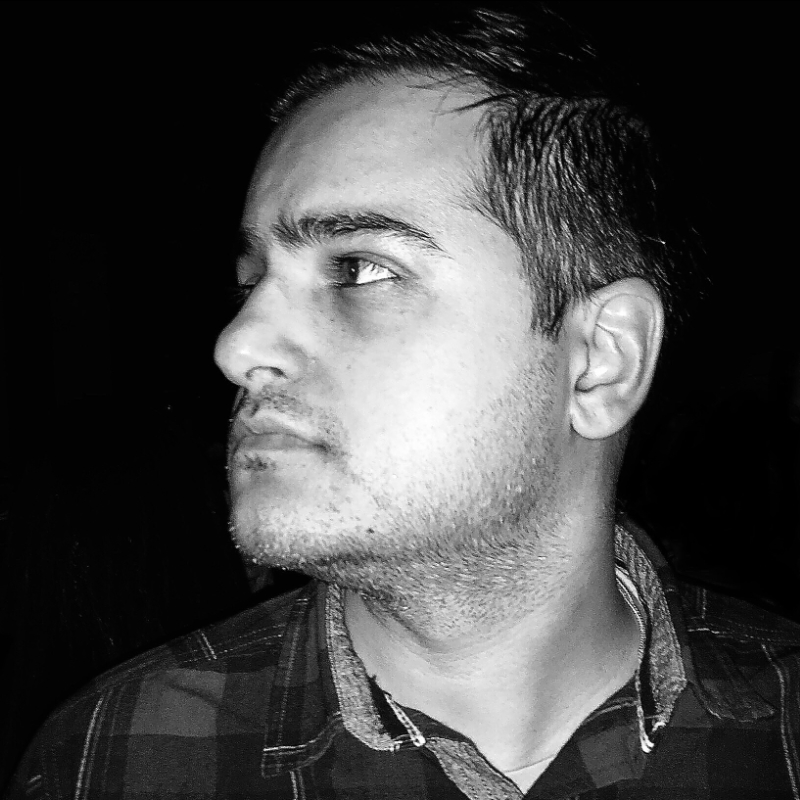
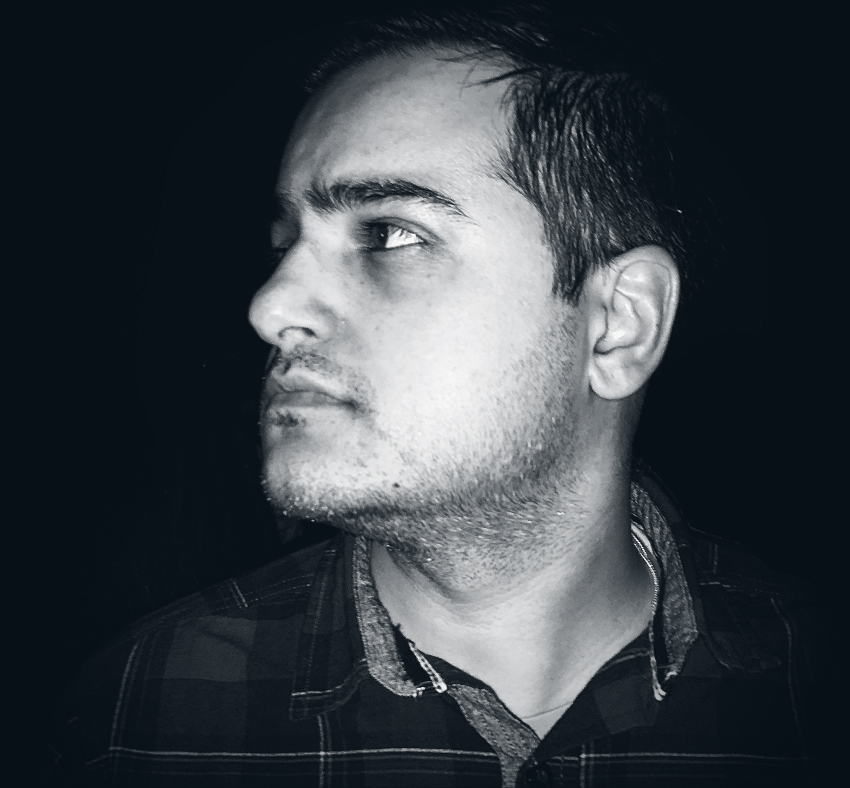
Some updates

diff --git a/index.html b/index.html
@@ -16,7 +16,7 @@
     <link rel="preconnect" href="https://fonts.googleapis.com" />
     <link rel="preconnect" href="https://fonts.gstatic.com" crossorigin />
     <link
-      href="https://fonts.googleapis.com/css2?family=Rubik:wght@400;700&display=swap"
+      href="https://fonts.googleapis.com/css2?family=Sen:wght@400;700&display=swap"
       rel="stylesheet"
     />
     <link
@@ -27,83 +27,128 @@
     />
     <link rel="stylesheet" href="style.css" />
   </head>
-  <body class="bg-dark text-white">
-    <div class="px-4 py-5 text-center">
-      <h1 class="display-3 fw-bold text-white">Soul Concept</h1>
-      <p class="fs-5 mb-4">DJ / Producer from the UK</p>
+  <body>
+    <div class="px-4 text-justify">
       <div class="col-sm-10 col-md-8 col-lg-6 col-xxl-4 mx-auto">
-        <img
+        <!-- <h1 class="display-3 fw-bold text-white">
+          <svg
+            class="logo"
+            viewBox="0 0 344 60"
+            fill="none"
+            xmlns="http://www.w3.org/2000/svg"
+          >
+            <title>Soul Concept</title>
+            <path
+              d="M53.9511 14.9966C50.5782 9.16216 45.3368 4.6317 39.0714 2.13524C32.806 -0.361225 25.8815 -0.678289 19.4136 1.23513C12.9458 3.14856 7.31126 7.18103 3.41804 12.6828C2.27227 14.3019 1.29695 16.0178 0.5 17.8086L45.2628 45.1254C41.0898 49.706 36.7044 51.6816 32.526 52.5471C27.7654 53.5332 22.859 52.9326 18.4258 50.9388C14.0397 48.9663 10.3827 45.6733 7.96559 41.5228L1.90774 45.0158C2.88408 46.7029 4.02826 48.3005 5.32972 49.7826C9.77743 54.8478 15.8031 58.27 22.4358 59.4977C29.0685 60.7254 35.9219 59.6872 41.8917 56.5504C47.8615 53.4135 52.6001 48.3607 55.3437 42.2061L10.5305 14.8518C14.5187 10.486 19.0838 8.40072 23.2329 7.52604C27.99 6.52317 32.9429 7.04836 37.3831 9.0265C41.8008 10.9946 45.4859 14.3007 47.9174 18.4757L53.9511 14.9966Z"
+              fill="#F1F0F8"
+            />
+            <path
+              fill-rule="evenodd"
+              clip-rule="evenodd"
+              d="M36.3053 11.3768C40.2393 13.1294 43.5176 16.0796 45.6715 19.8054L38.5973 23.8845C37.305 21.649 35.338 19.8789 32.9776 18.8273C30.6172 17.7757 27.9843 17.4966 25.4554 18.0297C24.4195 18.2481 23.4228 18.5982 22.4878 19.067L14.8379 14.3973C17.3998 12.2443 20.4645 10.7439 23.7683 10.0474C27.9831 9.15887 32.3713 9.62419 36.3053 11.3768ZM41.0439 45.5712L33.3741 40.8893C32.4508 41.3434 31.4686 41.6822 30.4488 41.8935C27.9181 42.4177 25.2862 42.1292 22.9295 41.0693C20.5728 40.0095 18.6121 38.2325 17.3277 35.9924C16.295 34.1913 15.742 32.1651 15.7092 30.1061L8.0394 25.4242C7.86885 26.1795 7.74089 26.9466 7.65706 27.7221C7.1947 31.9994 8.09848 36.3132 10.2391 40.0466C12.3798 43.7799 15.6477 46.7416 19.5755 48.5081C23.5033 50.2746 27.8898 50.7553 32.1077 49.8816C35.4099 49.1976 38.4763 47.7109 41.0439 45.5712Z"
+              fill="#F1F0F8"
+            />
+            <path
+              d="M88.0625 18.0938C89.4453 18.0938 90.582 18.293 91.4727 18.6914C92.3867 19.0898 93.1836 19.5117 93.8633 19.957V23.2266C93.207 22.7344 92.4102 22.2773 91.4727 21.8555C90.5352 21.4102 89.5156 21.1875 88.4141 21.1875C87.7109 21.1875 86.9727 21.3164 86.1992 21.5742C85.4492 21.8086 84.8164 22.1953 84.3008 22.7344C83.7852 23.2734 83.5273 23.9648 83.5273 24.8086C83.5273 25.7461 83.8672 26.4609 84.5469 26.9531C85.2266 27.4453 86.0469 27.9141 87.0078 28.3594L90.2422 29.8359C91.8594 30.5625 93.0781 31.3711 93.8984 32.2617C94.7188 33.1523 95.1289 34.3359 95.1289 35.8125C95.1289 37.1016 94.7539 38.2383 94.0039 39.2227C93.2539 40.1836 92.2695 40.9453 91.0508 41.5078C89.832 42.0703 88.4961 42.3516 87.043 42.3516C85.6836 42.3516 84.4297 42.1172 83.2812 41.6484C82.1328 41.1797 81.1367 40.6523 80.293 40.0664V36.7969C81.207 37.4297 82.25 38.0039 83.4219 38.5195C84.6172 39.0117 85.9648 39.2578 87.4648 39.2578C88.6367 39.2578 89.668 38.9648 90.5586 38.3789C91.4492 37.793 91.8945 36.9844 91.8945 35.9531C91.8945 35.3672 91.707 34.8633 91.332 34.4414C90.9805 34.0195 90.5469 33.6562 90.0312 33.3516C89.5156 33.0469 89.0117 32.7891 88.5195 32.5781L84.6172 30.8203C82.9297 30.0703 81.7812 29.1914 81.1719 28.1836C80.5625 27.1758 80.2578 26.0156 80.2578 24.7031C80.2578 23.4609 80.6094 22.3477 81.3125 21.3633C82.0391 20.3555 83 19.5586 84.1953 18.9727C85.3906 18.3867 86.6797 18.0938 88.0625 18.0938ZM111.055 17.918C112.836 17.918 114.477 18.2461 115.977 18.9023C117.477 19.5352 118.789 20.4141 119.914 21.5391C121.039 22.6641 121.906 23.9766 122.516 25.4766C123.148 26.9531 123.465 28.5352 123.465 30.2227C123.465 31.9102 123.148 33.5039 122.516 35.0039C121.906 36.4805 121.039 37.7812 119.914 38.9062C118.789 40.0312 117.477 40.9219 115.977 41.5781C114.477 42.2109 112.836 42.5273 111.055 42.5273C109.273 42.5273 107.633 42.2109 106.133 41.5781C104.633 40.9219 103.32 40.0312 102.195 38.9062C101.07 37.7812 100.191 36.4805 99.5586 35.0039C98.9492 33.5039 98.6445 31.9102 98.6445 30.2227C98.6445 28.5352 98.9492 26.9531 99.5586 25.4766C100.191 23.9766 101.07 22.6641 102.195 21.5391C103.32 20.4141 104.633 19.5352 106.133 18.9023C107.633 18.2461 109.273 17.918 111.055 17.918ZM111.055 21.0117C109.297 21.0117 107.727 21.4102 106.344 22.207C104.961 23.0039 103.871 24.1055 103.074 25.5117C102.277 26.8945 101.879 28.4648 101.879 30.2227C101.879 31.9805 102.277 33.5508 103.074 34.9336C103.871 36.3164 104.961 37.418 106.344 38.2383C107.727 39.0352 109.297 39.4336 111.055 39.4336C112.812 39.4336 114.383 39.0352 115.766 38.2383C117.148 37.418 118.238 36.3164 119.035 34.9336C119.832 33.5508 120.23 31.9805 120.23 30.2227C120.23 28.4648 119.832 26.8945 119.035 25.5117C118.238 24.1055 117.148 23.0039 115.766 22.207C114.383 21.4102 112.812 21.0117 111.055 21.0117ZM148.145 18.375V32.6836C148.145 34.7227 147.711 36.4805 146.844 37.957C146 39.4102 144.852 40.5234 143.398 41.2969C141.945 42.0703 140.293 42.457 138.441 42.457C136.613 42.457 134.961 42.0703 133.484 41.2969C132.031 40.5234 130.871 39.4102 130.004 37.957C129.16 36.4805 128.738 34.7227 128.738 32.6836V18.375H131.902V32.5781C131.902 34.1719 132.195 35.4609 132.781 36.4453C133.391 37.4297 134.188 38.1445 135.172 38.5898C136.18 39.0117 137.27 39.2227 138.441 39.2227C139.613 39.1992 140.691 38.9766 141.676 38.5547C142.684 38.1094 143.48 37.4062 144.066 36.4453C144.676 35.4609 144.98 34.1719 144.98 32.5781V18.375H148.145ZM158.691 18.4453V39.0117H171.664V42H155.527V18.4453H158.691ZM188.047 17.918C189.523 17.918 190.801 18.1289 191.879 18.5508C192.957 18.9492 193.895 19.5 194.691 20.2031V25.125C194.129 24.7031 193.543 24.293 192.934 23.8945C192.324 23.4961 191.633 23.168 190.859 22.9102C190.109 22.6523 189.219 22.5234 188.188 22.5234C186.781 22.5234 185.504 22.8633 184.355 23.543C183.207 24.2227 182.293 25.1367 181.613 26.2852C180.934 27.4336 180.594 28.7461 180.594 30.2227C180.594 31.6758 180.934 32.9883 181.613 34.1602C182.293 35.3086 183.207 36.2227 184.355 36.9023C185.504 37.5586 186.781 37.8867 188.188 37.8867C189.758 37.8867 191.07 37.6523 192.125 37.1836C193.203 36.6914 194.176 36.0938 195.043 35.3906V40.1367C194.246 40.8633 193.25 41.4492 192.055 41.8945C190.859 42.3164 189.523 42.5273 188.047 42.5273C186.359 42.5273 184.766 42.2344 183.266 41.6484C181.766 41.0391 180.441 40.1953 179.293 39.1172C178.145 38.0156 177.242 36.7148 176.586 35.2148C175.93 33.7148 175.602 32.0508 175.602 30.2227C175.602 28.3945 175.93 26.7305 176.586 25.2305C177.242 23.7305 178.145 22.4414 179.293 21.3633C180.441 20.2617 181.766 19.418 183.266 18.832C184.766 18.2227 186.359 17.918 188.047 17.918ZM210.547 17.918C212.234 17.918 213.816 18.2227 215.293 18.832C216.77 19.418 218.07 20.2617 219.195 21.3633C220.344 22.4414 221.234 23.7305 221.867 25.2305C222.523 26.7305 222.852 28.3945 222.852 30.2227C222.852 32.0508 222.523 33.7148 221.867 35.2148C221.234 36.7148 220.344 38.0156 219.195 39.1172C218.07 40.1953 216.77 41.0391 215.293 41.6484C213.816 42.2344 212.234 42.5273 210.547 42.5273C208.859 42.5273 207.266 42.2344 205.766 41.6484C204.289 41.0391 202.977 40.1953 201.828 39.1172C200.703 38.0156 199.812 36.7148 199.156 35.2148C198.523 33.7148 198.207 32.0508 198.207 30.2227C198.207 28.3945 198.523 26.7305 199.156 25.2305C199.812 23.7305 200.703 22.4414 201.828 21.3633C202.977 20.2617 204.289 19.418 205.766 18.832C207.266 18.2227 208.859 17.918 210.547 17.918ZM210.547 22.5234C209.141 22.5234 207.875 22.8633 206.75 23.543C205.648 24.2227 204.781 25.1367 204.148 26.2852C203.516 27.4336 203.199 28.7461 203.199 30.2227C203.199 31.6758 203.516 32.9883 204.148 34.1602C204.781 35.3086 205.648 36.2227 206.75 36.9023C207.875 37.5586 209.141 37.8867 210.547 37.8867C211.953 37.8867 213.207 37.5586 214.309 36.9023C215.41 36.2227 216.277 35.3086 216.91 34.1602C217.543 32.9883 217.859 31.6758 217.859 30.2227C217.859 28.7461 217.543 27.4336 216.91 26.2852C216.277 25.1367 215.41 24.2227 214.309 23.543C213.207 22.8633 211.953 22.5234 210.547 22.5234ZM248.551 18.4453V42.1758H246.793L232.836 27.7969V42H227.949V18.2695H229.707L243.664 32.8594V18.4453H248.551ZM266.094 17.918C267.57 17.918 268.848 18.1289 269.926 18.5508C271.004 18.9492 271.941 19.5 272.738 20.2031V25.125C272.176 24.7031 271.59 24.293 270.98 23.8945C270.371 23.4961 269.68 23.168 268.906 22.9102C268.156 22.6523 267.266 22.5234 266.234 22.5234C264.828 22.5234 263.551 22.8633 262.402 23.543C261.254 24.2227 260.34 25.1367 259.66 26.2852C258.98 27.4336 258.641 28.7461 258.641 30.2227C258.641 31.6758 258.98 32.9883 259.66 34.1602C260.34 35.3086 261.254 36.2227 262.402 36.9023C263.551 37.5586 264.828 37.8867 266.234 37.8867C267.805 37.8867 269.117 37.6523 270.172 37.1836C271.25 36.6914 272.223 36.0938 273.09 35.3906V40.1367C272.293 40.8633 271.297 41.4492 270.102 41.8945C268.906 42.3164 267.57 42.5273 266.094 42.5273C264.406 42.5273 262.812 42.2344 261.312 41.6484C259.812 41.0391 258.488 40.1953 257.34 39.1172C256.191 38.0156 255.289 36.7148 254.633 35.2148C253.977 33.7148 253.648 32.0508 253.648 30.2227C253.648 28.3945 253.977 26.7305 254.633 25.2305C255.289 23.7305 256.191 22.4414 257.34 21.3633C258.488 20.2617 259.812 19.418 261.312 18.832C262.812 18.2227 264.406 17.918 266.094 17.918ZM293.48 28.0078V31.9805H283.074V37.6758H294.852V42H278.188V18.4453H294.852V22.6641H283.074V28.0078H293.48ZM310.742 18.4453C311.844 18.4453 312.922 18.6328 313.977 19.0078C315.031 19.3828 315.98 19.9336 316.824 20.6602C317.691 21.3867 318.371 22.2656 318.863 23.2969C319.379 24.3047 319.637 25.4648 319.637 26.7773C319.637 28.3711 319.227 29.7891 318.406 31.0312C317.609 32.25 316.543 33.2109 315.207 33.9141C313.871 34.6172 312.418 34.9688 310.848 34.9688C309.793 34.9688 308.844 34.8633 308 34.6523C307.156 34.4414 306.453 34.1953 305.891 33.9141V42H301.004V18.4453H310.742ZM305.891 23.0156V29.9766C306.406 30.1875 307.027 30.375 307.754 30.5391C308.504 30.6797 309.266 30.75 310.039 30.75C311.445 30.75 312.559 30.3633 313.379 29.5898C314.223 28.793 314.645 27.8555 314.645 26.7773C314.645 25.5352 314.176 24.5977 313.238 23.9648C312.301 23.332 311.199 23.0156 309.934 23.0156H305.891ZM341.926 18.4453V22.8398H334.402V41.8945H329.551V22.8398H322.027V18.4453H341.926Z"
+              fill="#F1F0F8"
+            />
+          </svg>
+        </h1> -->
+        <!-- <img
           src="avatar.jpg"
-          class="img-fluid mb-4 w-25 rounded-3"
+          class="img-fluid mb-4 mt-4 w-50 rounded-3 d-block"
+          alt="Ajay Karwal aka Soul Concept"
+        /> -->
+        <img
+          src="header.jpg"
+          class="img-fluid mb-4 mt-4 d-block"
           alt="Ajay Karwal aka Soul Concept"
         />
-        <div class="mb-5">
-          <p>
-            Hello... I'm Ajay, aka Soul Concept. I'm a Drum and Bass DJ/Producer
-            from Northampton, UK.
-          </p>
-          <p>
-            I've been DJing since around 1996 and have played all sorts of
-            styles over the years.. Hiphop, UK Garage, Bhangra, Pop, House and
-            of course Drum and Bass... These days I produce and play mainly
-            liquid / soulful / atmospheric Drum and Bass.
-          </p>
-
-          <p>
-            My influences include Calibre, Makoto, Zero T, Lenzman, LTJ Bukem,
-            Redeyes, Alix Perez, Krust, DJ Marky and a pretty much the whole of
-            the liquid funk DnB scene. I got into DnB after hearing DJ Krust's
-            "Warhead". That deep single bass note in the intro had me hooked.
-          </p>
-          <p>Check out the links below to learn more about me and my music.</p>
-        </div>
-        <div class="d-grid d-sm-flex flex-wrap gap-3 justify-content-sm-center">
+        <div class="d-grid d-sm-flex flex-wrap gap-3">
           <a
-            class="btn btn-sm btn-outline-light btn-lg px-4"
-            href="https://www.twitch.tv/soulconceptuk"
-            >Twitch</a
-          >
-          <a
-            class="btn btn-sm btn-outline-light btn-lg px-4"
+            class="btn btn-sm btn-outline-light px-4"
             href="https://soundcloud.com/soulconceptuk"
             >Soundcloud</a
           >
           <a
-            class="btn btn-sm btn-outline-light btn-lg px-4"
+            class="btn btn-sm btn-outline-light px-4"
             href="https://soulconcept.bandcamp.com"
             >Bandcamp</a
           >
           <a
-            class="btn btn-sm btn-outline-light btn-lg px-4"
+            class="btn btn-sm btn-outline-light px-4"
             href="https://mixcloud.com/soulconceptuk"
             >Mixcloud</a
           >
           <a
-            class="btn btn-sm btn-outline-light btn-lg px-4"
+            class="btn btn-sm btn-outline-light px-4"
+            href="https://www.twitch.tv/soulconceptuk"
+            >Twitch</a
+          >
+          <a
+            class="btn btn-sm btn-outline-light px-4"
             href="https://instagram.com/soulconceptuk"
             >Instagram</a
           >
           <a
-            class="btn btn-sm btn-outline-light btn-lg px-4"
+            class="btn btn-sm btn-outline-light px-4"
             href="https://twitter.com/soulconceptuk"
             >Twitter</a
           >
           <a
-            class="btn btn-sm btn-outline-light btn-lg px-4"
+            class="btn btn-sm btn-outline-light px-4"
             href="https://www.facebook.com/soulconceptuk"
             >Facebook</a
           >
 
           <a
-            class="btn btn-sm btn-outline-light btn-lg px-4"
+            class="btn btn-sm btn-outline-light px-4"
             href="https://discord.gg/BrqSGhB6Yq"
             >Discord</a
           >
           <a
-            class="btn btn-sm btn-outline-light btn-lg px-4"
+            class="btn btn-sm btn-outline-light px-4"
             href="mailto:soulconceptuk@gmail.com"
             >Email</a
           >
+        </div>
+        <div class="mt-5">
+          <p>
+            I've been DJing since around 1996 and have played all sorts of
+            styles over the years.. Hiphop, UK Garage, Bhangra, Pop, House and
+            of course Drum and Bass...
+          </p>
+
+          <p>
+            These days I produce and play mainly liquid / soulful / atmospheric
+            Drum and Bass. My sound is relatively upbeat and melodic, with warm
+            basslines and crisp breaks.
+          </p>
+
+          <p>
+            I'm heavily influenced by the mid-2000's liquid drum and bass scene
+            and fell in love with the genre due to artist such as Calibre,
+            Makoto, High Contrast, Zero T, Lenzman, LTJ Bukem, Redeyes, Alix
+            Perez, Krust, DJ Marky and Commix to name a few.
+          </p>
+
+          <p>
+            I also occasionally incorporate my Indian heritage into my music,
+            fusing it with drum and bass to create music that is inspired by the
+            likes of Osmani Soundz, Nitin Sawhney, Karsh Kale, Talvin Singh,
+            Shiva Soundsystem and The Nasha Experience.
+          </p>
+          <hr />
+          <dl>
+            <dt>Artist Name</dt>
+            <dd>Soul Concept</dd>
+            <dt>Real Name</dt>
+            <dd>Ajay Karwal</dd>
+            <dt>Location</dt>
+            <dd>Northampton, UK</dd>
+            <dt>Contact</dt>
+            <dd>soulconceptuk@gmail.com</dd>
+          </dl>
         </div>
       </div>
     </div>

diff --git a/style.css b/style.css
@@ -1,8 +1,19 @@
 body {
-  font-family: "Rubik", sans-serif;
+  font-family: "Sen", sans-serif;
+  background-color: #081017;
+  color: #ffffff;
+  font-size: 1.125rem;
 }
 
 h1 {
   font-weight: 700;
   text-transform: uppercase;
+}
+
+.logo {
+  max-width: 340px;
+}
+
+hr {
+  margin: 2rem 0;
 }
